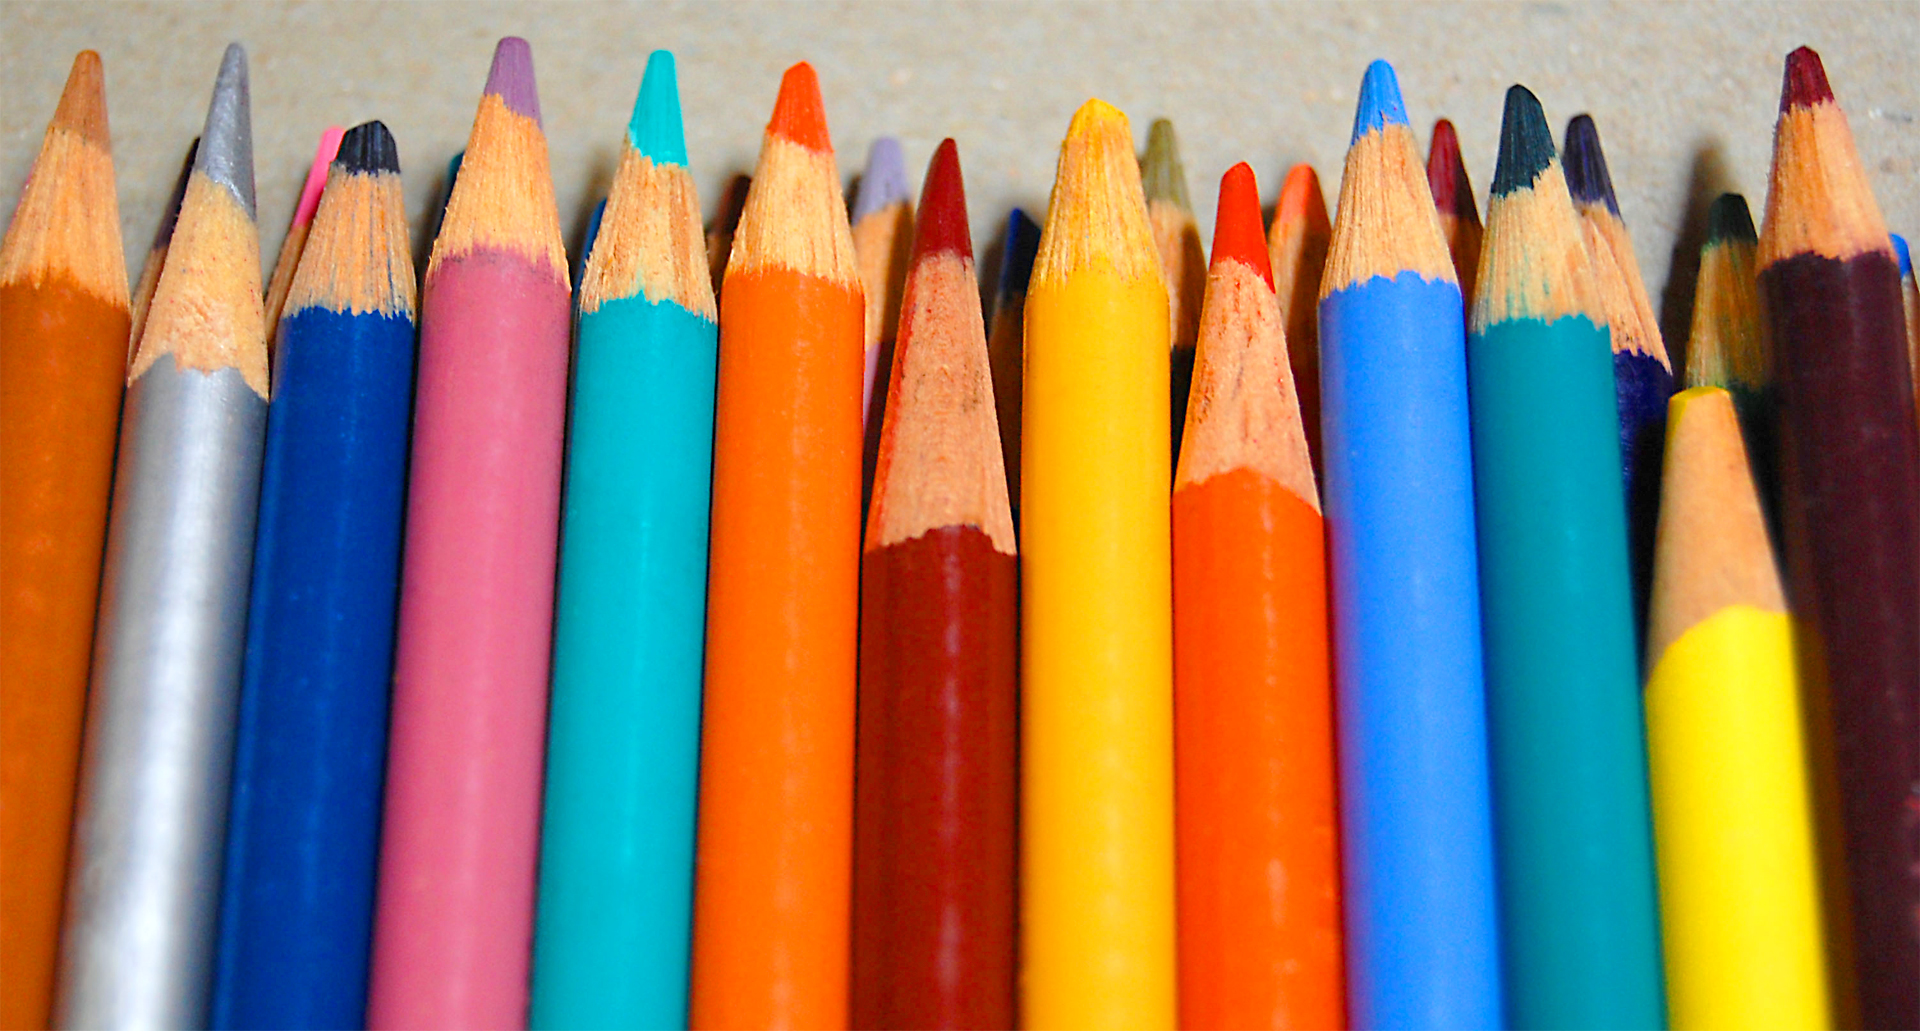
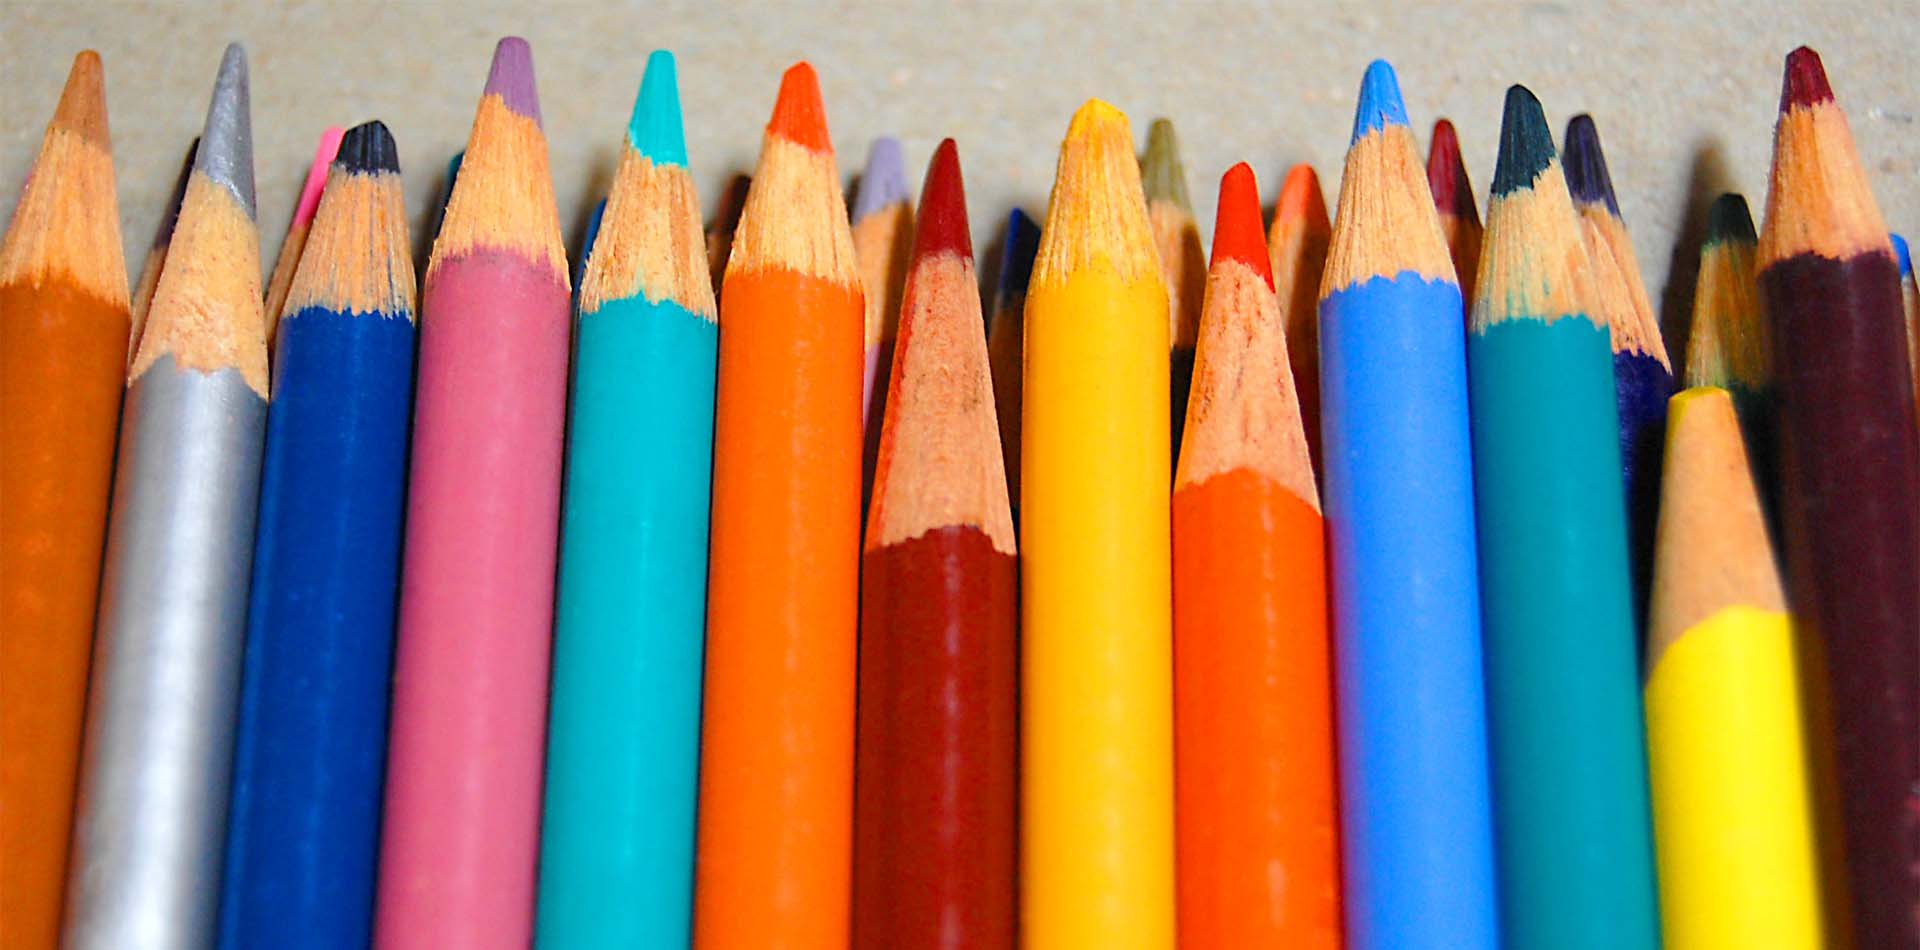
json filesize preloader completed and all images optimised

diff --git a/index.html b/index.html
@@ -141,7 +141,7 @@
 				</ul>
 			</div>
 			<div class="welcome-message">
-				<div class="heading"><h1>Hi There! I’m Richard Barrett,</h1></div>
+				<div class="heading"><h1>Hi there! I’m Richard Barrett,</h1></div>
 				<div class="sub-heading"><p>a user experience/web designer with a passion for creating exciting and engaging online experiences.</p></div>
 			</div>
 		</div> <!--.story-->
@@ -168,7 +168,16 @@
 					</a>
 					<a href='images/web-design/02.jpg' class='fresco' data-fresco-group='web-design' data-fresco-caption=""></a>
 					<a href='images/web-design/03.jpg' class='fresco' data-fresco-group='web-design' data-fresco-caption=""></a>
-					<a href='images/web-design/04.jpg' class='fresco' data-fresco-group='web-design' data-fresco-caption=""></a>
+					<a href='images/web-design/04.jpg' class='fresco' data-fresco-group='web-design' data-fresco-caption=""></a>					
+					<a href='images/web-design/05.jpg' class='fresco' data-fresco-group='web-design' data-fresco-caption=""></a>
+					<a href='images/web-design/06.jpg' class='fresco' data-fresco-group='web-design' data-fresco-caption=""></a>
+					<a href='images/web-design/07.jpg' class='fresco' data-fresco-group='web-design' data-fresco-caption=""></a>
+					<a href='images/web-design/08.jpg' class='fresco' data-fresco-group='web-design' data-fresco-caption=""></a>
+					<a href='images/web-design/09.jpg' class='fresco' data-fresco-group='web-design' data-fresco-caption=""></a>
+					<a href='images/web-design/10.jpg' class='fresco' data-fresco-group='web-design' data-fresco-caption=""></a>
+					<a href='images/web-design/11.jpg' class='fresco' data-fresco-group='web-design' data-fresco-caption=""></a>
+					<a href='images/web-design/12.jpg' class='fresco' data-fresco-group='web-design' data-fresco-caption=""></a>
+					<a href='images/web-design/13.jpg' class='fresco' data-fresco-group='web-design' data-fresco-caption=""></a>
 
 				</div>
 			</div>
@@ -189,7 +198,7 @@
 			</div>
 			<div class='gallery-container'>
 				<div class="gallery">
-					<a href='images/icons-and-illustration/01.jpg' class='fresco' data-fresco-group='icons-and-illustration' data-fresco-caption="Brisbane">
+					<a href='images/icons-and-illustration/01.jpg' class='fresco' data-fresco-group='icons-and-illustration' data-fresco-caption="">
 						<div class="gallery-link icons-and-illustration-container" alt='Gallery link'></div>
 					</a>					
 					<a href='images/icons-and-illustration/02.jpg' class='fresco' data-fresco-group='icons-and-illustration' data-fresco-caption=""></a>

diff --git a/css/style.css b/css/style.css
@@ -186,7 +186,7 @@ p{
 }
 
 #forth{
-	background: url(../images/fourthBG.jpg) no-repeat fixed 50% 0 transparent;
+	background: url(../images/forthBG.jpg) no-repeat fixed 50% 0 transparent;
 }
 
 #forth .story .slide-header .slide-number {
@@ -360,13 +360,13 @@ div#wrapper > * {
 }
 
 .icons-and-illustration-container {
-	background-image: url("../images/icons-and-illustration-gallery-link.jpg");
+	background-image: url("../images/icons-and-illustration-gallery.jpg");
 	background-position: center center;
 	background-size:100%;
 }
 
 .photography-container {
-	background-image: url("../images/photography-gallery-link.jpg");
+	background-image: url("../images/photography-gallery.jpg");
 	background-position: center center;
 	background-size:100%;
 }
